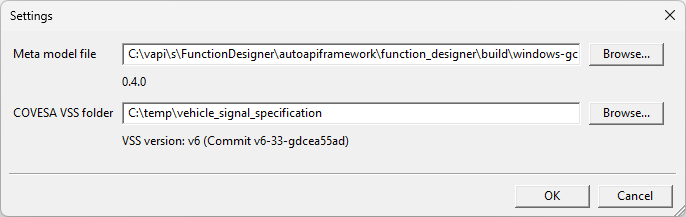
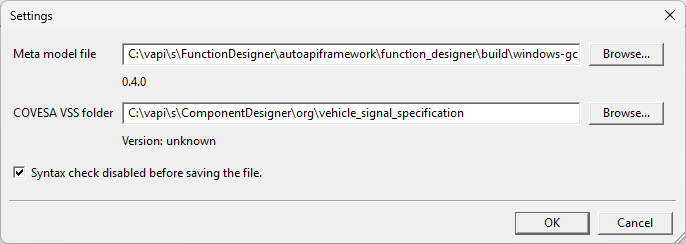
add checkbos to skipp the syntax check

diff --git a/function_designer/src/main_frame.cpp b/function_designer/src/main_frame.cpp
@@ -45,6 +45,7 @@ namespace acd
         constexpr const char* kMetaModelDirectoryConfigKey = "/Paths/MetaModelDirectory";
         constexpr const char* kVspecDirectoryConfigKey = "/Paths/VSpecDirectory";
         constexpr const char* kCreateApiLanguageConfigKey = "/CreateAPI/Language";
+        constexpr const char* kDisableSyntaxCheckBeforeSavingConfigKey = "/Settings/DisableSyntaxCheckBeforeSaving";
         constexpr const char* kLogoFileName = "autoapiframework_logo.png";
         constexpr const char* kLogoFileNameLarge = "autoapiframework_logo_large.png";		
         constexpr const char* kIconFileName = "autoapiframework_icon.png";
@@ -56,6 +57,13 @@ namespace acd
         wxString ToWx(const std::string& text) { return wxString::FromUTF8(text.c_str()); }
 
         std::string ToStd(const wxString& text) { return std::string(text.utf8_str()); }
+
+        bool IsSyntaxCheckDisabledBeforeSaving()
+        {
+            bool disabled = false;
+            wxConfigBase::Get()->Read(kDisableSyntaxCheckBeforeSavingConfigKey, &disabled, false);
+            return disabled;
+        }
 
         wxString FindRuntimeFile(const char* fileName)
         {
@@ -500,7 +508,7 @@ namespace acd
         {
             return;
         }
-        if (!SyntaxCheckIsOK(true, "Not saved! "))
+        if (!IsSyntaxCheckDisabledBeforeSaving() && !SyntaxCheckIsOK(true, "Not saved! "))
         {
             return;
         }
@@ -530,7 +538,7 @@ namespace acd
                         wxOK | wxICON_INFORMATION, this);
             return;
         }
-        if (!SyntaxCheckIsOK(true))        
+        if (!IsSyntaxCheckDisabledBeforeSaving() && !SyntaxCheckIsOK(true))
         {
             return;
         }
@@ -612,8 +620,10 @@ namespace acd
         wxConfigBase* config = wxConfigBase::Get();
         wxString metaModelFile = kMetaModelFileName;
         wxString vspecDirectory;
+        bool disableSyntaxCheckBeforeSaving = false;
         config->Read(kMetaModelFileConfigKey, &metaModelFile);
         config->Read(kVspecDirectoryConfigKey, &vspecDirectory);
+        config->Read(kDisableSyntaxCheckBeforeSavingConfigKey, &disableSyntaxCheckBeforeSaving, false);
 
         MetaModel metaModel;
         std::string metaModelVersion = "unknown";
@@ -631,6 +641,9 @@ namespace acd
 
         wxTextCtrl* metaModelControl = new wxTextCtrl(&dialog, wxID_ANY, metaModelFile);
         wxTextCtrl* vspecControl = new wxTextCtrl(&dialog, wxID_ANY, vspecDirectory);
+        wxCheckBox* disableSyntaxCheckControl = new wxCheckBox(
+            &dialog, wxID_ANY, "Syntax check disabled before saving the file.");
+        disableSyntaxCheckControl->SetValue(disableSyntaxCheckBeforeSaving);
         wxStaticText* metaModelVersionLabel = new wxStaticText(&dialog, wxID_ANY, metaModelVersion);    
         
         wxString vspecVersion = ToWx(GetGitTagAndVersion("VSS version: ", vspecDirectory));
@@ -702,6 +715,7 @@ namespace acd
                  });
 
         dialogSizer->Add(fields, 1, wxEXPAND | wxALL, 12);
+        dialogSizer->Add(disableSyntaxCheckControl, 0, wxLEFT | wxRIGHT | wxBOTTOM, 12);
         dialogSizer->Add(dialog.CreateSeparatedButtonSizer(wxOK | wxCANCEL), 0, wxEXPAND | wxALL, 8);
         dialog.SetSizerAndFit(dialogSizer);
         dialog.SetMinSize(wxSize(700, -1));
@@ -713,6 +727,7 @@ namespace acd
 
         config->Write(kMetaModelFileConfigKey, metaModelControl->GetValue());
         config->Write(kVspecDirectoryConfigKey, vspecControl->GetValue());
+        config->Write(kDisableSyntaxCheckBeforeSavingConfigKey, disableSyntaxCheckControl->GetValue());
         config->Flush();
         SetStatusText("Global settings updated", 0);
         if (metaModelFile.CompareTo(metaModelControl->GetValue()) != 0)

diff --git a/docs/doc/function_designer/application_purpose_and_use.rst b/docs/doc/function_designer/application_purpose_and_use.rst
@@ -160,20 +160,22 @@ Application Menu Overview
 .. figure:: figures/settings.png
    :alt: settings window   
 
-The function designer is self explaining and provides an intuitive interface for managing function specifications.
-It only requires a meta model file to be present beside the executable. If the setting is changed a restart is required.
+The Function Designer provides an intuitive interface for creating and managing function specifications. To operate correctly, it requires a meta model file to be located in the same directory as the executable. If this setting is modified, the application must be restarted for the change to take effect.
 
-If you select the folder of the cloned vspec repository, the function designer will be able to get the version information from it.
+If you select the root folder of the cloned VSS/VSpec repository, the Function Designer can automatically retrieve version information from the repository.
+
+.. tip::
+
+   Before saving the specification to disk, a syntax check is performed. To bypass the syntax check, disable it in the settings.
 
 .. figure:: figures/menu_file.png
    :alt: file menu   
 
-As said before the function designer is self-explanatory. This applies particularly to the File menu.
+The Function Designer provides an intuitive user interface. In particular, the functions available in the File menu should require little additional explanation.
 
 .. figure:: figures/menu_help.png
    :alt: help menu    
 
-Beside the help you also can detect if the covesa tools are installed correctly. This information is useful for troubleshooting and ensuring that all necessary dependencies are in place.
+In addition to the help documentation, the application can check whether the COVESA tools are installed correctly. This information is useful for troubleshooting and for verifying that all required dependencies are in place.
 
-Below the Quick tips are some useful hints for example what is not yet implemented and may need other tooling to be completed.
-
+The **Quick Tips** section also provides useful hints, including information about features that are not yet implemented and may require additional tools to complete the task.
